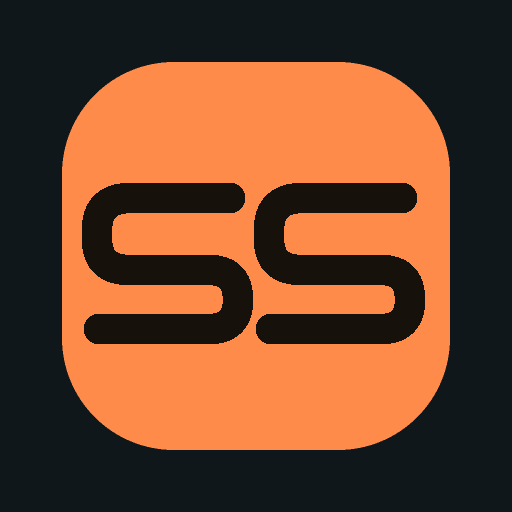
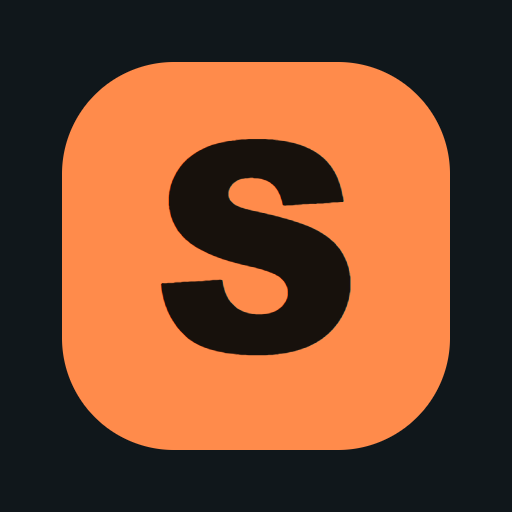
Refresh SENAI Sports interface and game limits

Changed region(s): [[0.1562, 0.25, 0.8438, 0.7188]]

diff --git a/src/pages/GamesPage.tsx b/src/pages/GamesPage.tsx
@@ -2,13 +2,13 @@ import { useState, type FormEvent } from 'react';
 import type { Game, MatchSet, Route } from '../types/models';
 import { useApp } from '../contexts/AppContext';
 import { Button, Card, Empty, Field, Modal, SelectField, Status } from '../components/ui';
-import { cancelGame, createGame, joinGame, leaveGame, saveScore } from '../services/games';
+import { cancelGame, createGame, GAME_DURATION_MINUTES, joinGame, leaveGame, MAX_GAME_PLAYERS, saveScore } from '../services/games';
 import { addDays, fmtDate, startTime, teamName, userName } from '../utils/format';
 import { field } from '../utils/validation';
 
 export function GameDetails({ game, onClose }: { game: Game; onClose: () => void }) {
   const { state } = useApp();
-  return <Modal title={`${teamName(state, game.team1)} × ${teamName(state, game.team2)}`} onClose={onClose}><div className="grid-equal"><div><p><strong>Data:</strong> {fmtDate(game.date)}</p><p><strong>Horário:</strong> {game.time}</p><p><strong>Local:</strong> {game.court}</p><p><strong>Status:</strong> {game.status}</p></div><div><p><strong>Participantes ({game.participantIds.length}/{game.limit}):</strong></p><p className="muted">{game.participantIds.map(id => userName(state, id)).join(', ') || 'Nenhum inscrito ainda.'}</p></div></div><p><strong>Descrição:</strong> {game.description || '—'}</p><p><strong>Observações:</strong> {game.notes || '—'}</p>{game.sets.map((set, index) => <div className="list-item" key={index}><strong>Set {index + 1}</strong><span>{set.a} × {set.b}</span></div>)}</Modal>;
+  return <Modal title={`${teamName(state, game.team1)} × ${teamName(state, game.team2)}`} onClose={onClose}><div className="grid-equal"><div><p><strong>Data:</strong> {fmtDate(game.date)}</p><p><strong>Horário:</strong> {game.time}</p><p><strong>Local:</strong> {game.court}</p><p><strong>Status:</strong> {game.status}</p></div><div><p><strong>Participantes ({game.participantIds.length}/{Math.min(game.limit, MAX_GAME_PLAYERS)}):</strong></p><p className="muted">{game.participantIds.map(id => userName(state, id)).join(', ') || 'Nenhum inscrito ainda.'}</p></div></div><p><strong>Descrição:</strong> {game.description || '—'}</p><p><strong>Observações:</strong> {game.notes || '—'}</p>{game.sets.map((set, index) => <div className="list-item" key={index}><strong>Set {index + 1}</strong><span>{set.a} × {set.b}</span></div>)}</Modal>;
 }
 function ScoreModal({ game, onClose }: { game: Game; onClose: () => void }) {
   const { state, act, notify } = useApp();
@@ -30,7 +30,7 @@ export function GamesPage({ navigate }: { navigate: (route: Route) => void }) {
   const games = [...state.games].filter(game => (!dateFilter || game.date === dateFilter) && (!teamFilter || game.team1 === teamFilter || game.team2 === teamFilter) && (!statusFilter || game.status === statusFilter) && (!courtFilter || game.court === courtFilter)).sort((a, b) => startTime(b.date, b.time) - startTime(a.date, a.time));
   return <><div className="section-title"><h2>Jogos e eventos</h2>{user.role === 'teacher' && <Button onClick={() => navigate('createGame')}>＋ Criar jogo</Button>}</div><Card className="table-wrap"><div className="game-filters"><label>Data<input aria-label="Filtrar por data" type="date" value={dateFilter} onChange={event => setDateFilter(event.target.value)} /></label><label>Equipe<select aria-label="Filtrar por equipe" value={teamFilter} onChange={event => setTeamFilter(event.target.value)}><option value="">Todas as equipes</option>{state.teams.map(team => <option key={team.id} value={team.id}>{team.name}</option>)}</select></label><label>Quadra<select aria-label="Filtrar por quadra" value={courtFilter} onChange={event => setCourtFilter(event.target.value)}><option value="">Todas as quadras</option>{[...new Set(state.games.map(game => game.court))].map(court => <option key={court} value={court}>{court}</option>)}</select></label><label>Situação<select aria-label="Filtrar por situação" value={statusFilter} onChange={event => setStatusFilter(event.target.value)}><option value="">Todas</option><option value="inscricoes">Inscrições abertas</option><option value="agendado">Agendado</option><option value="finalizado">Finalizado</option><option value="cancelado">Cancelado</option></select></label></div>{games.length ? <table className="game-table"><thead><tr><th>Data</th><th>Partida</th><th>Horário</th><th>Quadra</th><th>Participantes</th><th>Status</th><th>Ações</th></tr></thead><tbody>{games.map(game => {
     const joined = game.participantIds.includes(user.id), upcoming = startTime(game.date, game.time) > Date.now(), open = ['inscricoes', 'agendado'].includes(game.status);
-    return <tr key={game.id}><td data-label="Data">{fmtDate(game.date)}</td><td data-label="Partida"><strong>{teamName(state, game.team1)} × {teamName(state, game.team2)}</strong></td><td data-label="Horário">{game.time}</td><td data-label="Quadra">{game.court}</td><td data-label="Participantes">{game.participantIds.length}/{game.limit}</td><td data-label="Situação"><Status color={game.status === 'finalizado' ? 'green' : game.status === 'cancelado' ? 'red' : 'blue'}>{game.status}</Status></td><td data-label="Ações"><div className="table-actions"><button className="link-btn" onClick={() => setDetail(game.id)}>Detalhes</button>{user.role === 'student' && open && upcoming && (joined ? startTime(game.date, game.time) - Date.now() > 15 * 60_000 && <button className="link-btn" onClick={() => act((draft, actor) => leaveGame(draft, actor, game.id), 'Participação cancelada.')}>Sair</button> : <button className="link-btn" onClick={() => act((draft, actor) => joinGame(draft, actor, game.id), 'Você entrou no jogo.')}>Entrar</button>)}{user.role === 'teacher' && game.status !== 'cancelado' && <><button className="link-btn" onClick={() => setScore(game.id)}>Placar</button><button className="link-btn" onClick={() => { if (confirm('Tem certeza que deseja cancelar este jogo?')) act((draft, actor) => cancelGame(draft, actor, game.id), 'Jogo cancelado.'); }}>Cancelar</button></>}</div></td></tr>;
+    return <tr key={game.id}><td data-label="Data">{fmtDate(game.date)}</td><td data-label="Partida"><strong>{teamName(state, game.team1)} × {teamName(state, game.team2)}</strong></td><td data-label="Horário">{game.time}</td><td data-label="Quadra">{game.court}</td><td data-label="Participantes">{game.participantIds.length}/{Math.min(game.limit, MAX_GAME_PLAYERS)}</td><td data-label="Situação"><Status color={game.status === 'finalizado' ? 'green' : game.status === 'cancelado' ? 'red' : 'blue'}>{game.status}</Status></td><td data-label="Ações"><div className="table-actions"><button className="link-btn" onClick={() => setDetail(game.id)}>Detalhes</button>{user.role === 'student' && open && upcoming && (joined ? startTime(game.date, game.time) - Date.now() > 15 * 60_000 && <button className="link-btn" onClick={() => act((draft, actor) => leaveGame(draft, actor, game.id), 'Participação cancelada.')}>Sair</button> : <button className="link-btn" onClick={() => act((draft, actor) => joinGame(draft, actor, game.id), 'Você entrou no jogo.')}>Entrar</button>)}{user.role === 'teacher' && game.status !== 'cancelado' && <><button className="link-btn" onClick={() => setScore(game.id)}>Placar</button><button className="link-btn" onClick={() => { if (confirm('Tem certeza que deseja cancelar este jogo?')) act((draft, actor) => cancelGame(draft, actor, game.id), 'Jogo cancelado.'); }}>Cancelar</button></>}</div></td></tr>;
   })}</tbody></table> : <Empty>{state.games.length ? 'Nenhum jogo corresponde aos filtros. Ajuste os filtros para ver outras partidas.' : 'Ainda não há jogos. Novas partidas aparecerão aqui e no calendário.'}</Empty>}</Card>{detailGame && <GameDetails game={detailGame} onClose={() => setDetail(null)} />}{scoreGame && <ScoreModal game={scoreGame} onClose={() => setScore(null)} />}</>;
 }
 export function CreateGamePage({ navigate }: { navigate: (route: Route) => void }) {
@@ -40,5 +40,13 @@ export function CreateGamePage({ navigate }: { navigate: (route: Route) => void 
     event.preventDefault(); const data = new FormData(event.currentTarget);
     if (act((draft, actor) => createGame(draft, actor, { date: field(data, 'date'), time: field(data, 'time'), team1: field(data, 'team1'), team2: field(data, 'team2'), limit: Number(field(data, 'limit')), description: field(data, 'description'), notes: field(data, 'notes'), status: field(data, 'status') === 'agendado' ? 'agendado' : 'inscricoes' }), 'Jogo criado com sucesso.')) navigate('calendar');
   }
-  return <Card><div className="section-title"><h2>Novo jogo</h2><Status>Somente professor</Status></div><form onSubmit={submit}><div className="form-grid"><Field label="Data" name="date" type="date" min={addDays(1)} required /><Field label="Horário" name="time" type="time" required /><Field label="Local / quadra" value="Quadra SENAI" readOnly /><Field label="Duração (min)" value={90} readOnly />{[1, 2].map(index => <SelectField key={index} label={`Equipe ${index}`} name={`team${index}`}><option value="">Equipe aberta</option>{state.teams.filter(team => team.status === 'ativa').map(team => <option key={team.id} value={team.id}>{team.name}</option>)}</SelectField>)}<Field label="Limite de jogadores" name="limit" type="number" min={1} defaultValue={18} required /><SelectField label="Status" name="status" defaultValue="inscricoes"><option value="inscricoes">Inscrições abertas</option><option value="agendado">Agendado</option></SelectField><Field full label="Descrição" name="description" placeholder="Ex.: Jogo amistoso" /><div className="form-field full"><label htmlFor="gameNotes">Observações</label><textarea id="gameNotes" name="notes" /></div></div><Button type="submit">Salvar jogo</Button></form></Card>;
+  return <Card><div className="section-title"><h2>Novo jogo</h2><Status>Somente professor</Status></div><form onSubmit={submit}><div className="form-grid">
+    <div className="notice full game-limits-note">Cada partida aceita até {MAX_GAME_PLAYERS} jogadores e dura no máximo {GAME_DURATION_MINUTES} minutos.</div>
+    <Field label="Data" name="date" type="date" min={addDays(1)} required /><Field label="Horário" name="time" type="time" required />
+    <Field label="Local / quadra" value="Quadra SENAI" readOnly /><Field label="Duração (min)" value={GAME_DURATION_MINUTES} readOnly />
+    {[1, 2].map(index => <SelectField key={index} label={`Equipe ${index}`} name={`team${index}`}><option value="">Equipe aberta</option>{state.teams.filter(team => team.status === 'ativa').map(team => <option key={team.id} value={team.id}>{team.name}</option>)}</SelectField>)}
+    <Field label="Limite de jogadores" name="limit" type="number" min={1} max={MAX_GAME_PLAYERS} defaultValue={MAX_GAME_PLAYERS} required />
+    <SelectField label="Status" name="status" defaultValue="inscricoes"><option value="inscricoes">Inscrições abertas</option><option value="agendado">Agendado</option></SelectField>
+    <Field full label="Descrição" name="description" placeholder="Ex.: Jogo amistoso" /><div className="form-field full"><label htmlFor="gameNotes">Observações</label><textarea id="gameNotes" name="notes" /></div>
+  </div><Button type="submit">Salvar jogo</Button></form></Card>;
 }

diff --git a/src/pages/RankingPage.tsx b/src/pages/RankingPage.tsx
@@ -1,9 +1,25 @@
 import { useApp } from '../contexts/AppContext';
-import { Card } from '../components/ui';
+import { Card, Empty } from '../components/ui';
+import { GameList } from '../components/GameCard';
+import { startTime } from '../utils/format';
 
 export function RankingPage() {
   const { state } = useApp();
   const players = state.stats.map(stats => ({ ...stats, user: state.users.find(user => user.id === stats.userId) })).filter(item => item.user?.role === 'student').sort((a, b) => b.points - a.points);
   const teams = [...state.teams].sort((a, b) => b.wins - a.wins || b.pointsFor - a.pointsFor);
-  return <div className="grid-equal"><Card><h3>Ranking de alunos</h3><div className="table-wrap"><table><thead><tr><th>#</th><th>Aluno</th><th>Pontos</th><th>Aces</th><th>Bloqueios</th><th>V/D</th></tr></thead><tbody>{players.map((item, index) => <tr key={item.userId}><td><strong>{index + 1}</strong></td><td>{item.user?.name}<br /><small className="muted">{item.user?.turma}</small></td><td>{item.points}</td><td>{item.aces}</td><td>{item.blocks}</td><td>{item.wins}/{item.losses}</td></tr>)}</tbody></table></div></Card><Card><h3>Ranking de equipes</h3><div className="table-wrap"><table><thead><tr><th>#</th><th>Equipe</th><th>V</th><th>D</th><th>PF</th><th>PS</th></tr></thead><tbody>{teams.map((team, index) => <tr key={team.id}><td><strong>{index + 1}</strong></td><td>{team.name}</td><td>{team.wins}</td><td>{team.losses}</td><td>{team.pointsFor}</td><td>{team.pointsAgainst}</td></tr>)}</tbody></table></div></Card></div>;
+  const history = state.games.filter(game => ['finalizado', 'cancelado'].includes(game.status)).sort((a, b) => startTime(b.date, b.time) - startTime(a.date, a.time));
+
+  return <div className="performance-page">
+    <section aria-labelledby="performance-ranking-title">
+      <div className="section-title"><div><p className="eyebrow">DESEMPENHO</p><h2 id="performance-ranking-title">Classificação</h2></div></div>
+      <div className="grid-equal">
+        <Card><h3>Ranking de alunos</h3>{players.length ? <div className="table-wrap"><table><thead><tr><th>#</th><th>Aluno</th><th>Pontos</th><th>Aces</th><th>Bloqueios</th><th>V/D</th></tr></thead><tbody>{players.map((item, index) => <tr key={item.userId}><td><strong>{index + 1}</strong></td><td>{item.user?.name}<br /><small className="muted">{item.user?.turma}</small></td><td>{item.points}</td><td>{item.aces}</td><td>{item.blocks}</td><td>{item.wins}/{item.losses}</td></tr>)}</tbody></table></div> : <Empty>Nenhum jogador no ranking.</Empty>}</Card>
+        <Card><h3>Ranking de equipes</h3>{teams.length ? <div className="table-wrap"><table><thead><tr><th>#</th><th>Equipe</th><th>V</th><th>D</th><th>PF</th><th>PS</th></tr></thead><tbody>{teams.map((team, index) => <tr key={team.id}><td><strong>{index + 1}</strong></td><td>{team.name}</td><td>{team.wins}</td><td>{team.losses}</td><td>{team.pointsFor}</td><td>{team.pointsAgainst}</td></tr>)}</tbody></table></div> : <Empty>Nenhuma equipe no ranking.</Empty>}</Card>
+      </div>
+    </section>
+    <section className="performance-history" aria-labelledby="performance-history-title">
+      <div className="section-title"><div><p className="eyebrow">PARTIDAS</p><h2 id="performance-history-title">Histórico de partidas</h2></div></div>
+      <Card><GameList games={history} /></Card>
+    </section>
+  </div>;
 }

diff --git a/src/layouts/AppLayout.tsx b/src/layouts/AppLayout.tsx
@@ -4,11 +4,11 @@ import type { Route, UserRole } from '../types/models';
 import { roleLabel } from '../utils/format';
 import { Avatar, Button, Logo } from '../components/ui';
 
-export const titles: Record<Route, string> = { dashboard: 'Início', calendar: 'Calendário', createGame: 'Criar jogo', management: 'Gerenciamento', teams: 'Equipes', tournaments: 'Campeonatos', ranking: 'Ranking', history: 'Histórico', profile: 'Perfil', users: 'Usuários', logs: 'Logs' };
-const icons: Record<Route, string> = { dashboard: 'M3 10.8 12 3l9 7.8M5.5 9.2V21h13V9.2M9.5 21v-7h5v7', calendar: 'M7 3v3m10-3v3M4 9h16M5 5h14a1 1 0 0 1 1 1v14H4V6a1 1 0 0 1 1-1Zm3 8h2m3 0h2m-7 4h2m3 0h2', createGame: 'M12 5v14m-7-7h14', management: 'M12 8a4 4 0 1 0 0 8 4 4 0 0 0 0-8Zm0-5v2m0 14v2m9-9h-2M5 12H3m15.4-6.4-1.4 1.4M7 17l-1.4 1.4m12.8 0L17 17M7 7 5.6 5.6', teams: 'M16 21v-2a4 4 0 0 0-4-4H7a4 4 0 0 0-4 4v2m6.5-10a4 4 0 1 0 0-8 4 4 0 0 0 0 8Zm8.5 1a4 4 0 0 1 3 3.9V21m-3-18a4 4 0 0 1 0 7.8', tournaments: 'm12 3 2.8 5.7 6.2.9-4.5 4.4 1.1 6.2-5.6-3-5.6 3 1.1-6.2L3 9.6l6.2-.9L12 3Z', ranking: 'M4 19V9m8 10V5m8 14v-7M2 21h20', history: 'M3 12a9 9 0 1 0 2.6-6.4L3 8m0-5v5h5m4-1v5l3 2', users: 'M16 21v-2a4 4 0 0 0-4-4H7a4 4 0 0 0-4 4v2m6.5-10a4 4 0 1 0 0-8 4 4 0 0 0 0 8Zm8-5v6m3-3h-6', logs: 'M8 6h13M8 12h13M8 18h13M3 6h.01M3 12h.01M3 18h.01', profile: 'M20 21a8 8 0 0 0-16 0m8-10a4 4 0 1 0 0-8 4 4 0 0 0 0 8Z' };
+export const titles: Record<Route, string> = { dashboard: 'Início', calendar: 'Calendário', createGame: 'Criar jogo', management: 'Gerenciamento', teams: 'Equipes', tournaments: 'Campeonatos', ranking: 'Ranking e histórico', profile: 'Perfil', users: 'Usuários', logs: 'Logs' };
+const icons: Record<Route, string> = { dashboard: 'M3 10.8 12 3l9 7.8M5.5 9.2V21h13V9.2M9.5 21v-7h5v7', calendar: 'M7 3v3m10-3v3M4 9h16M5 5h14a1 1 0 0 1 1 1v14H4V6a1 1 0 0 1 1-1Zm3 8h2m3 0h2m-7 4h2m3 0h2', createGame: 'M12 5v14m-7-7h14', management: 'M12 8a4 4 0 1 0 0 8 4 4 0 0 0 0-8Zm0-5v2m0 14v2m9-9h-2M5 12H3m15.4-6.4-1.4 1.4M7 17l-1.4 1.4m12.8 0L17 17M7 7 5.6 5.6', teams: 'M16 21v-2a4 4 0 0 0-4-4H7a4 4 0 0 0-4 4v2m6.5-10a4 4 0 1 0 0-8 4 4 0 0 0 0 8Zm8.5 1a4 4 0 0 1 3 3.9V21m-3-18a4 4 0 0 1 0 7.8', tournaments: 'm12 3 2.8 5.7 6.2.9-4.5 4.4 1.1 6.2-5.6-3-5.6 3 1.1-6.2L3 9.6l6.2-.9L12 3Z', ranking: 'M3 18h5V8H3v10Zm7 0h5V4h-5v14Zm7 0h5V11h-5v7ZM2 21h20', users: 'M16 21v-2a4 4 0 0 0-4-4H7a4 4 0 0 0-4 4v2m6.5-10a4 4 0 1 0 0-8 4 4 0 0 0 0 8Zm8-5v6m3-3h-6', logs: 'M8 6h13M8 12h13M8 18h13M3 6h.01M3 12h.01M3 18h.01', profile: 'M20 21a8 8 0 0 0-16 0m8-10a4 4 0 1 0 0-8 4 4 0 0 0 0 8Z' };
 
 export function navItems(role: UserRole): Route[] {
-  const items: Route[] = ['dashboard', 'calendar', 'management', 'ranking', 'history'];
+  const items: Route[] = ['dashboard', 'calendar', 'management', 'ranking'];
   if (role === 'teacher') items.splice(2, 0, 'createGame');
   if (role === 'director') items.push('users', 'logs');
   return items;

diff --git a/src/styles/app.css b/src/styles/app.css
@@ -64,12 +64,12 @@ button:focus-visible, input:focus-visible, select:focus-visible, textarea:focus-
 .auth-brand h1 { position: relative; z-index: 1; max-width: 620px; margin: 0; font-size: clamp(54px, 7vw, 96px); line-height: .91; letter-spacing: -.04em; text-transform: uppercase; }
 .auth-brand p { position: relative; z-index: 1; max-width: 490px; margin: 24px 0 0; color: #c6d0d2; font-size: 18px; }
 .auth-court { position: relative; z-index: 1; width: min(460px, 80%); height: 154px; align-self: flex-end; border: 1px solid rgba(255,255,255,.22); border-radius: 10px; transform: skewY(-5deg); background: linear-gradient(90deg, transparent 49.8%, rgba(255,255,255,.25) 50%, transparent 50.2%), linear-gradient(0deg, transparent 49.8%, rgba(255,255,255,.25) 50%, transparent 50.2%), rgba(255,255,255,.025); }
-.auth-card-wrap { display: grid; place-items: center; padding: 36px; }
-.auth-card { width: min(480px, 100%); padding: clamp(24px, 4vw, 40px); border: 1px solid var(--border); border-radius: 24px; background: var(--panel); box-shadow: var(--shadow); }
+.auth-card-wrap { display: grid; place-items: center; min-width: 0; padding: clamp(20px, 4vw, 56px); }
+.auth-card { width: min(460px, 100%); padding: clamp(24px, 4vw, 40px); border: 1px solid color-mix(in srgb, var(--accent) 28%, var(--border)); border-radius: 24px; background: var(--panel); box-shadow: var(--shadow); }
 .auth-card h2 { margin: 28px 0 6px; font-size: 32px; }
 .auth-card .helper { margin-bottom: 24px; color: var(--muted); }
 .logo { display: flex; align-items: center; gap: 11px; font-weight: 800; letter-spacing: .01em; }
-.logo-mark { display: grid; width: 42px; height: 42px; place-items: center; border-radius: 13px; color: #17110c; background: var(--accent); font-family: 'Barlow Condensed', sans-serif; font-size: 17px; font-weight: 900; }
+.logo-mark { display: grid; width: 42px; height: 42px; place-items: center; border-radius: 13px; color: #17110c; background: var(--accent); font-family: 'Barlow Condensed', sans-serif; font-size: 24px; font-weight: 900; }
 .auth-links { display: flex; justify-content: space-between; flex-wrap: wrap; gap: 12px; margin-top: 16px; }
 
 /* Form controls */
@@ -316,6 +316,9 @@ tr:last-child td { border-bottom: 0; }
 .pwa-install-button { display: inline-flex; align-items: center; gap: 8px; box-shadow: var(--shadow); }
 .pwa-install-button svg { width: 18px; height: 18px; }
 .pwa-install-help { max-width: min(300px, calc(100vw - 36px)); padding: 12px 14px; border: 1px solid var(--border); border-radius: 11px; color: var(--text); background: var(--panel); box-shadow: var(--shadow); }
+.performance-history { padding-top: 26px; margin-top: 28px; border-top: 1px solid var(--border); }
+.performance-history .section-title { margin-bottom: 14px; }
+.game-limits-note { margin-bottom: 14px; }
 .suspended-page { min-height: 100dvh; }
 
 @media (max-width: 1180px) {

diff --git a/src/services/games.ts b/src/services/games.ts
@@ -3,21 +3,24 @@ import { audit, requireActor, requireTeacher } from './auth';
 import { startTime, uid } from '../utils/format';
 
 export type NewGame = Pick<Game, 'date' | 'time' | 'team1' | 'team2' | 'description' | 'notes' | 'limit' | 'status'>;
+export const MAX_GAME_PLAYERS = 20;
+export const GAME_DURATION_MINUTES = 90;
 export function createGame(state: DemoState, actorId: string, input: NewGame): void {
   requireTeacher(state, actorId);
-  const start = startTime(input.date, input.time), end = start + 90 * 60_000;
+  const start = startTime(input.date, input.time), end = start + GAME_DURATION_MINUTES * 60_000;
   if (!Number.isFinite(start) || start < Date.now() + 24 * 60 * 60_000) throw new Error('Crie o jogo com pelo menos 1 dia de antecedência.');
   if (!Number.isInteger(input.limit) || input.limit < 1) throw new Error('Informe um limite de jogadores válido.');
+  if (input.limit > MAX_GAME_PLAYERS) throw new Error(`Cada partida aceita no máximo ${MAX_GAME_PLAYERS} jogadores.`);
   if (input.team1 && input.team1 === input.team2) throw new Error('Escolha equipes diferentes.');
   if (state.games.some(game => game.status !== 'cancelado' && start < startTime(game.date, game.time) + game.duration * 60_000 && end > startTime(game.date, game.time))) throw new Error('Já existe um jogo ocupando a quadra nesse horário.');
-  state.games.push({ ...input, id: uid('g'), duration: 90, court: 'Quadra SENAI', participantIds: [], sets: [], createdBy: actorId });
+  state.games.push({ ...input, id: uid('g'), duration: GAME_DURATION_MINUTES, court: 'Quadra SENAI', participantIds: [], sets: [], createdBy: actorId });
   audit(state, actorId, `criou um jogo em ${input.date} às ${input.time}`);
 }
 export function joinGame(state: DemoState, actorId: string, gameId: string): void {
   const actor = requireActor(state, actorId), game = state.games.find(item => item.id === gameId);
   if (!game || actor.role !== 'student' || !['inscricoes', 'agendado'].includes(game.status) || startTime(game.date, game.time) <= Date.now()) throw new Error('As inscrições para este jogo não estão disponíveis.');
   if (game.participantIds.includes(actorId)) throw new Error('Você já está inscrito.');
-  if (game.participantIds.length >= game.limit) throw new Error('O jogo atingiu o limite de participantes.');
+  if (game.participantIds.length >= Math.min(game.limit, MAX_GAME_PLAYERS)) throw new Error('O jogo atingiu o limite de participantes.');
   game.participantIds.push(actorId);
 }
 export function leaveGame(state: DemoState, actorId: string, gameId: string): void {

diff --git a/src/pages/AuthPage.tsx b/src/pages/AuthPage.tsx
@@ -13,7 +13,7 @@ export function AuthPage() {
     else if (mode === 'register') register({ name: field(data, 'name'), email: field(data, 'email'), password: String(data.get('password') ?? ''), confirm: String(data.get('confirm') ?? ''), turma: field(data, 'turma'), idade: Number(field(data, 'idade')), matricula: field(data, 'matricula'), photo: field(data, 'photo') });
     else { notify('Esta demonstração não envia e-mails. A recuperação real será conectada ao Supabase na etapa de autenticação.'); setMode('login'); }
   }
-  return <div className="auth-shell"><section className="auth-brand"><Logo /><div><h1>Vôlei.<br />Agenda.<br />Equipe.</h1><p>Organize jogos, monte times, acompanhe campeonatos e veja o desempenho dos alunos em um só lugar.</p></div><div className="auth-court" /></section><section className="auth-card-wrap"><div className="auth-card"><Logo /><h2>{mode === 'login' ? 'Entrar' : mode === 'register' ? 'Criar conta' : 'Redefinir senha'}</h2><p className="helper">{mode === 'register' ? 'Cadastro exclusivo para alunos.' : mode === 'forgot' ? 'Recuperação de senha simulada nesta demonstração.' : 'Acesse sua conta para continuar.'}</p>
+  return <div className="auth-shell"><section className="auth-brand"><Logo /><div><h1>SENAI<br />Sports</h1><p>Organize jogos, monte times, acompanhe campeonatos e veja o desempenho dos alunos em um só lugar.</p></div><div className="auth-court" /></section><section className="auth-card-wrap"><div className="auth-card"><Logo /><h2>{mode === 'login' ? 'Entrar' : mode === 'register' ? 'Criar conta' : 'Redefinir senha'}</h2><p className="helper">{mode === 'register' ? 'Cadastro exclusivo para alunos.' : mode === 'forgot' ? 'Recuperação de senha simulada nesta demonstração.' : 'Acesse sua conta para continuar.'}</p>
     <form key={mode} onSubmit={submit}><div className={mode === 'register' ? 'form-grid' : ''}>
       {mode === 'register' && <Field name="name" label="Nome completo" required full autoComplete="name" />}
       <Field name="email" label="E-mail" type="email" required autoComplete="email" placeholder="seuemail@exemplo.com" />

diff --git a/tests/migration.spec.ts b/tests/migration.spec.ts
@@ -19,6 +19,15 @@ async function managementSection(page: Page, label: string) { await navigate(pag
 test('professor cria campeonato e líder inscreve seis jogadores; navegação e persistência', async ({ page }, testInfo) => {
   const errors: string[] = []; page.on('pageerror', error => errors.push(error.message));
   await page.goto('/'); await login(page, 'professor');
+  await navigate(page, 'createGame');
+  const playerLimit = page.getByLabel('Limite de jogadores');
+  await expect(playerLimit).toHaveAttribute('max', '20');
+  await expect(playerLimit).toHaveValue('20');
+  await expect(page.getByLabel('Duração (min)')).toHaveValue('90');
+  await expect(page.getByText(/até 20 jogadores e dura no máximo 90 minutos/)).toBeVisible();
+  await playerLimit.fill('21');
+  expect(await playerLimit.evaluate((input: HTMLInputElement) => input.checkValidity())).toBe(false);
+  await navigate(page, 'management');
   await managementSection(page, 'Campeonatos'); await page.getByRole('button', { name: '＋ Criar campeonato' }).click();
   await page.getByLabel('Nome', { exact: true }).fill('Copa SENAI React');
   const date = new Date(); date.setDate(date.getDate() + 7);
@@ -46,7 +55,8 @@ test('professor cria campeonato e líder inscreve seis jogadores; navegação e 
   await expect(page.getByRole('heading', { name: 'Jogos e eventos' })).toBeVisible();
   await page.getByLabel('Filtrar por quadra').selectOption('Quadra SENAI');
   await page.getByRole('button', { name: 'Mês', exact: true }).click();
-  for (const route of ['dashboard', 'calendar', 'ranking', 'history']) await navigate(page, route);
+  for (const route of ['dashboard', 'calendar', 'ranking']) await navigate(page, route);
+  await expect(page.getByRole('heading', { name: 'Histórico de partidas' })).toBeVisible();
   if (testInfo.project.name === 'desktop') {
     await page.getByRole('button', { name: 'Recolher menu' }).click();
     await expect(page.getByRole('button', { name: 'Alternar tema' })).toBeVisible();

diff --git a/src/services/migration.test.ts b/src/services/migration.test.ts
@@ -3,7 +3,7 @@ import { seed } from '../demo/seed';
 import { DEMO_KEY, loadDemo } from '../demo/storage';
 import { createTournament, registerTeam } from './tournaments';
 import { registerStudent } from './auth';
-import { createGame, saveScore } from './games';
+import { createGame, joinGame, saveScore } from './games';
 import { saveRoster } from './teams';
 import { addDays } from '../utils/format';
 import { stateSchema } from '../types/models';
@@ -64,6 +64,20 @@ describe('Migração da demonstração', () => {
     createGame(state, 'u2', input);
     expect(() => createGame(state, 'u2', { ...input, time: '15:00' })).toThrow('quadra');
     expect(() => createGame(state, 'u2', { ...input, time: '15:30' })).not.toThrow();
+  });
+  it('limita partidas a 20 jogadores e define duração de 90 minutos', () => {
+    const state = structuredClone(seed), input = { date: addDays(10), time: '14:00', team1: 't1', team2: 't2', description: '', notes: '', limit: 20, status: 'inscricoes' as const };
+    expect(() => createGame(state, 'u2', { ...input, limit: 21 })).toThrow('20 jogadores');
+    createGame(state, 'u2', input);
+    const game = state.games[state.games.length - 1]!;
+    expect(game.limit).toBe(20);
+    expect(game.duration).toBe(90);
+  });
+  it('não permite ultrapassar 20 participantes em registros antigos com limite maior', () => {
+    const state = structuredClone(seed), game = state.games.find(item => item.id === 'g1')!;
+    game.limit = 25;
+    game.participantIds = Array.from({ length: 20 }, (_, index) => `legacy-${index}`);
+    expect(() => joinGame(state, 'u4', game.id)).toThrow('limite de participantes');
   });
   it('editar placar não acumula as mesmas estatísticas duas vezes', () => {
     const state = structuredClone(seed), sets = [{ a: 25, b: 15 }, { a: 25, b: 10 }];

diff --git a/src/App.tsx b/src/App.tsx
@@ -13,7 +13,6 @@ import { TeamsPage } from './pages/TeamsPage';
 import { TournamentsPage } from './pages/TournamentsPage';
 import { RankingPage } from './pages/RankingPage';
 import { ProfilePage } from './pages/ProfilePage';
-import { HistoryPage } from './pages/HistoryPage';
 import { LogsPage, UsersPage } from './pages/AdminPages';
 import { ManagementPage } from './pages/ManagementPage';
 
@@ -26,7 +25,7 @@ function SignedInApp({ toggleTheme }: { toggleTheme: () => void }) {
     dashboard: <DashboardPage navigate={setRoute} />, calendar: <CalendarPage navigate={setRoute} />,
     createGame: <CreateGamePage navigate={setRoute} />,
     management: <ManagementPage />, teams: <TeamsPage />, tournaments: <TournamentsPage />, ranking: <RankingPage />,
-    history: <HistoryPage />, profile: <ProfilePage />, users: <UsersPage />, logs: <LogsPage />,
+    profile: <ProfilePage />, users: <UsersPage />, logs: <LogsPage />,
   } satisfies Record<Route, React.ReactNode>;
   return <AppLayout route={active} navigate={setRoute} toggleTheme={toggleTheme}>{pages[active]}</AppLayout>;
 }

diff --git a/index.html b/index.html
@@ -5,15 +5,15 @@
   <meta name="viewport" content="width=device-width, initial-scale=1.0" />
   <meta name="theme-color" content="#10171b" />
   <meta name="apple-mobile-web-app-capable" content="yes" />
-  <meta name="apple-mobile-web-app-title" content="SENAI Quadra" />
+  <meta name="apple-mobile-web-app-title" content="SENAI Sports" />
   <meta name="apple-mobile-web-app-status-bar-style" content="black" />
   <link rel="icon" type="image/png" sizes="192x192" href="%BASE_URL%pwa-192x192.png" />
   <link rel="apple-touch-icon" sizes="180x180" href="%BASE_URL%apple-touch-icon.png" />
-  <title>SENAI Quadra</title>
+  <title>SENAI Sports</title>
 </head>
 <body>
   <div id="app"></div>
-  <noscript>Ative o JavaScript para usar o SENAI Quadra.</noscript>
+  <noscript>Ative o JavaScript para usar o SENAI Sports.</noscript>
   <script type="module" src="/src/main.tsx"></script>
 </body>
 </html>

diff --git a/src/components/ui.tsx b/src/components/ui.tsx
@@ -7,7 +7,7 @@ export function Button({ variant = 'primary', className = '', type = 'button', .
   return <button type={type} className={`btn btn-${variant} ${className}`} {...props} />;
 }
 export function Card({ children, className = '' }: { children: ReactNode; className?: string }) { return <section className={`card ${className}`}>{children}</section>; }
-export function Logo() { return <div className="logo"><div className="logo-mark">SS</div><span>SENAI Sports</span></div>; }
+export function Logo() { return <div className="logo"><div className="logo-mark">S</div><span>SENAI Sports</span></div>; }
 export function Avatar({ user }: { user: User }) {
   const photo = safePhoto(user.photo);
   return <div className="avatar">{photo ? <img src={photo} alt={`Foto de ${user.name}`} /> : user.name.split(' ').map(part => part[0]).join('').slice(0, 2).toUpperCase()}</div>;

diff --git a/src/types/models.ts b/src/types/models.ts
@@ -44,5 +44,5 @@ export type Game = z.infer<typeof gameSchema>;
 export type MatchSet = z.infer<typeof setSchema>;
 export type Tournament = z.infer<typeof tournamentSchema>;
 export type DemoState = z.infer<typeof stateSchema>;
-export type Route = 'dashboard' | 'calendar' | 'createGame' | 'management' | 'teams' | 'tournaments' | 'ranking' | 'history' | 'profile' | 'users' | 'logs';
+export type Route = 'dashboard' | 'calendar' | 'createGame' | 'management' | 'teams' | 'tournaments' | 'ranking' | 'profile' | 'users' | 'logs';
 export type Theme = 'light' | 'dark';
